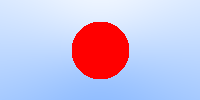
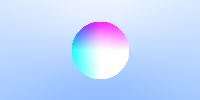
add normals and test

Changed region(s): [[0.36, 0.21, 0.66, 0.81]]

diff --git a/src/ray/mod.rs b/src/ray/mod.rs
@@ -24,20 +24,32 @@ impl Ray {
 
 impl Ray {
     pub fn color(&self) -> Vec3 {
-        if self.hit_sphere(&Vec3::new(0., 0., -1.), 0.5){
-            Vec3::new(1., 0., 0.)
-        } else{
-            let unit_direction = self.direction().make_unit_vector();
-            let t = 0.5 * (unit_direction.y() + 1.);
-            Vec3::new(1., 1., 1.) * (1.0 - t) + Vec3::new(0.5, 0.7, 1.) * t
-        }
+        let t = self.hit_sphere(&Vec3::new(0., 0., -1.), 0.5);
+        let clr = match t {
+            Some(v) => {
+                let N = (self.point_at(v) - Vec3::new(0., 0., -1.)).make_unit_vector();
+                Vec3::new(N.x() + 1., N.y() + 1., N.z() + 1.)
+            },
+            None => {
+                let unit_direction = self.direction().make_unit_vector();
+                let t = 0.5 * (unit_direction.y() + 1.);
+                Vec3::new(1., 1., 1.) * (1.0 - t) + Vec3::new(0.5, 0.7, 1.) * t
+
+            }
+        };
+        clr
     }
-    pub fn hit_sphere(&self, center: &Vec3, r: f64) -> bool {
+    pub fn hit_sphere(&self, center: &Vec3, r: f64) -> Option<f64> {
         let oc = *self.origin() - *center;
         let a = self.direction().dot(*self.direction());
         let b = 2. * self.direction().dot(oc);
         let c = oc.dot(oc) - r * r;
-        b * b - 4. * a * c > 0.
+        let discr = b * b - 4. * a * c;
+        if discr < 0. {
+            None
+        } else {
+            Some((-b - discr) / (2. * a)) 
+        }
     }
 }
 
